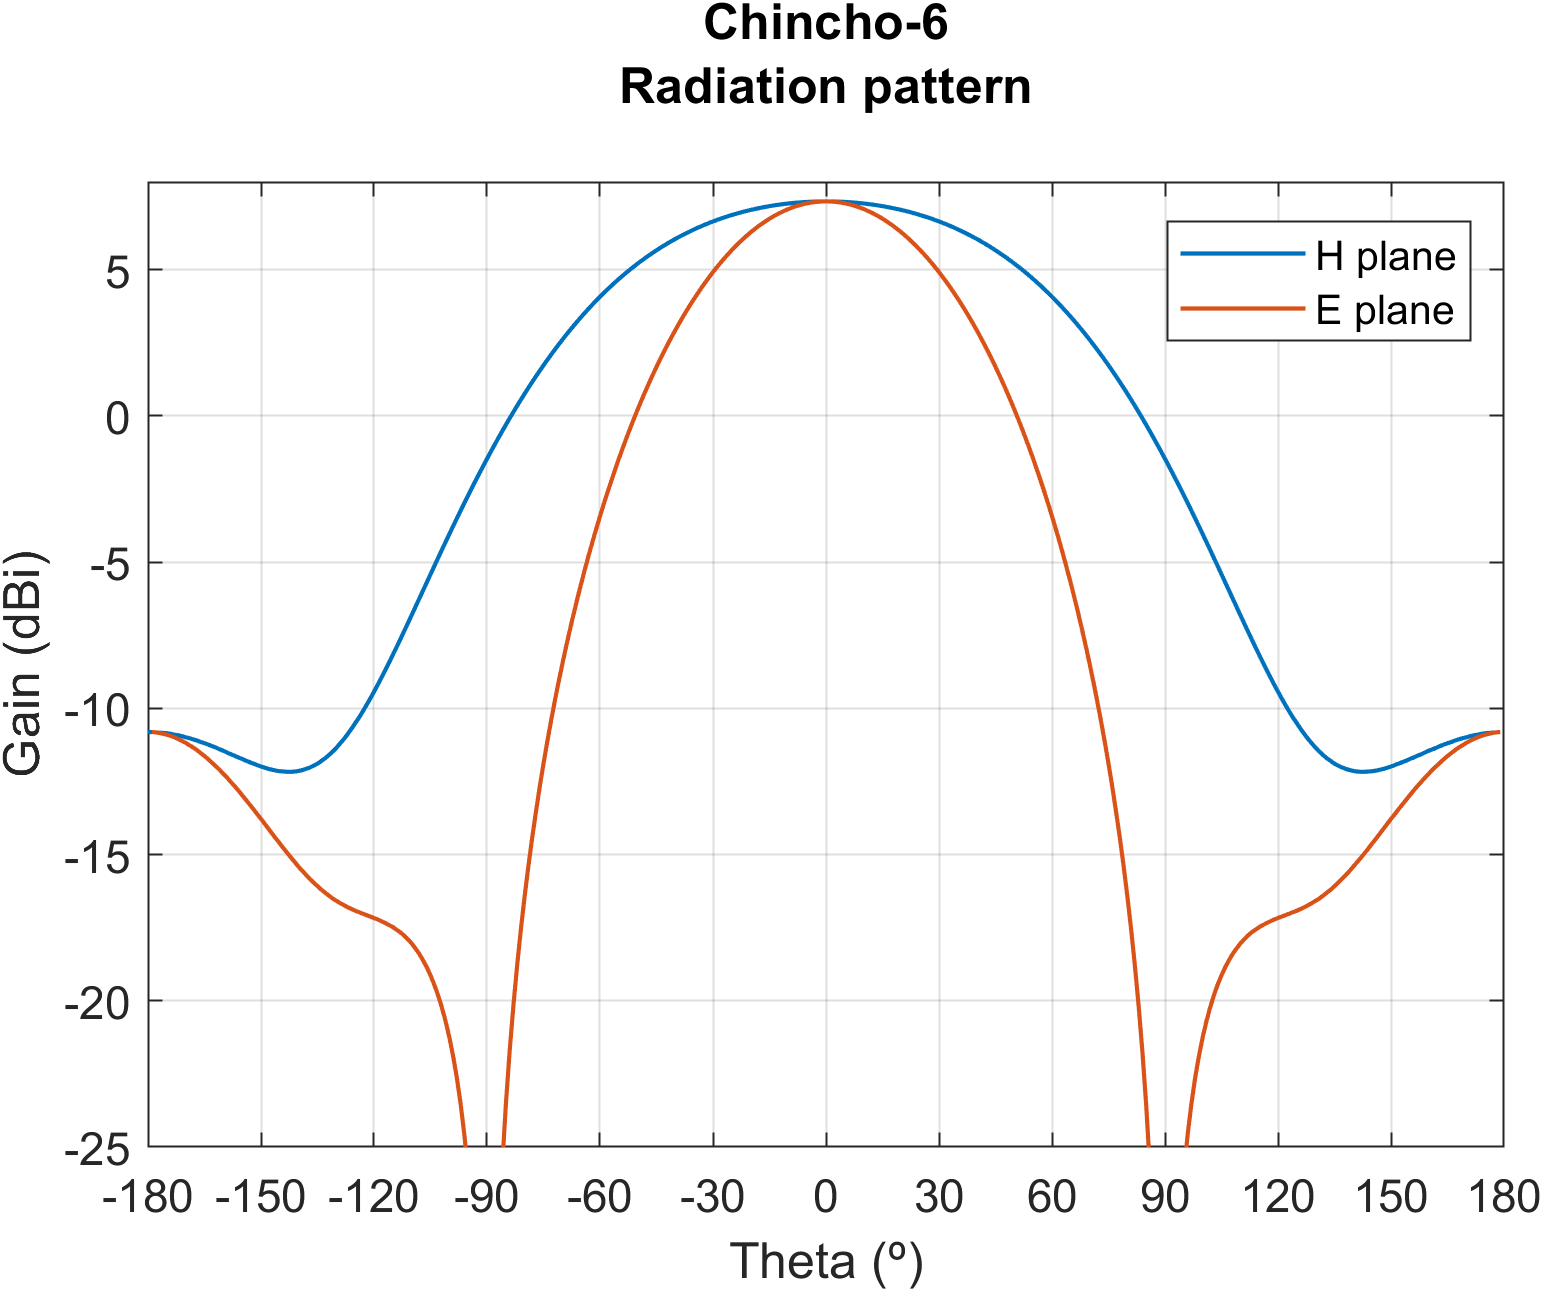
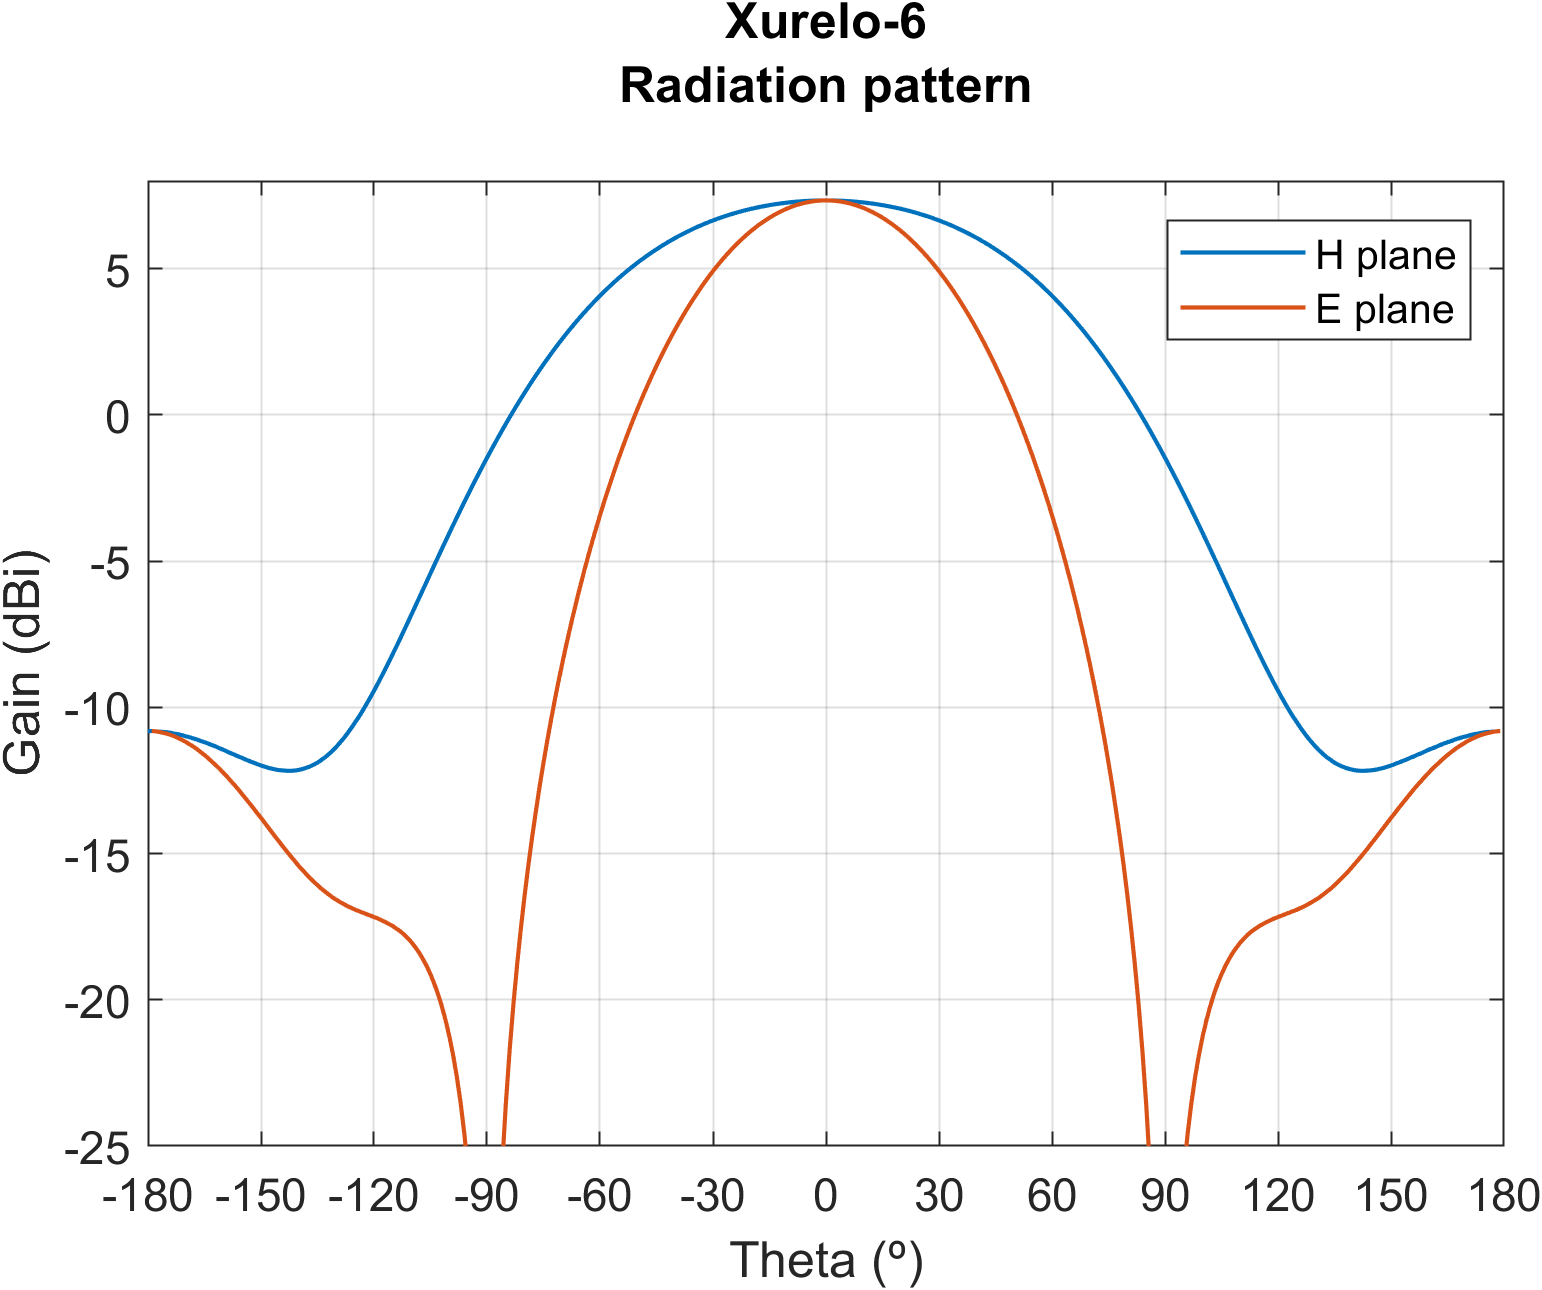
Xurelo

diff --git a/content/blog/2021-07-30-Xurelo-6.md b/content/blog/2021-07-30-Xurelo-6.md
@@ -53,9 +53,11 @@ This antenna has been designed with the objective of improving some aspects of o
 
 *Note: bandwidth is measured between points at 1.5 SWR. XPD is referred to broadside direction*
 
-Simulared adiation pattern | Measured SWR
+Simulated radiation pattern | Simulated SWR
 :-------------------------:|:-------------------------:
 ![](../../images/post/2021-07-30-Xurelo-6/FF.png)  |  ![](../../images/post/2021-07-30-Xurelo-6/SWR.png)
+
+![](../../images/post/2021-07-30-Xurelo-6/3D.png)
 
 
 ### Bill of materials

diff --git a/content/blog/2021-07-27-Aiga.md b/content/blog/2021-07-27-Aiga.md
@@ -83,7 +83,7 @@ Simulared adiation pattern | Measured SWR
 
 *Note: bandwidth is measured between points at 1.5 SWR. XPD is referred to broadside direction*
 
-Simulared adiation pattern | Measured SWR
+Simulated radiation pattern | Measured SWR
 :-------------------------:|:-------------------------:
 ![](../../images/post/2021-07-27-Aiga/FF_UHF.png)  |  ![](../../images/post/2021-07-27-Aiga/SWR_UHF.png)
 
